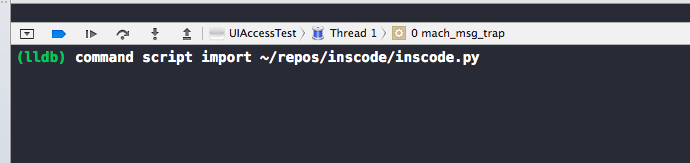
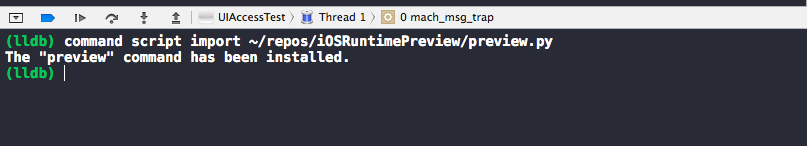
update README and images

Changed region(s): [[0.0, 0.0, 1.0, 1.0]]

diff --git a/README.md b/README.md
@@ -1,31 +1,29 @@
-inscode
-==========
-Runtime Objective-C Code Insertion Tool for iOS Debugging.
+iOS Runtime Preview
+======================
+This tool enables an iOS app to sync with code modifications at runtime.
 
-See video: [https://vimeo.com/86823475](https://vimeo.com/86823475)
+See video: [https://vimeo.com/87258262](https://vimeo.com/87258262)
 
 Install
 -------------
 ```sh
-$ git clone https://github.com/addsict/inscode.git
+$ git clone https://github.com/addsict/iOSRuntimePreview.git
 ```
 
 How to use
 ------------
 1. Run your iOS app from Xcode on either the iOS simulator or the iOS device.
 
-    ![img1](https://raw.github.com/addsict/inscode/master/img/img1.png)
+    ![img1](https://raw.github.com/addsict/iOSRuntimePreview/master/img/img1.png)
 
 1. Pause program execution by clicking a pause button at debug area or keyboard shortcut `^⌘Y`.
 
-    ![img2](https://raw.github.com/addsict/inscode/master/img/img2.png)
+    ![img2](https://raw.github.com/addsict/iOSRuntimePreview/master/img/img2.png)
 
-1. Import `inscode.py` into a LLDB debug session by below command.  
+1. Import `preview.py` into a LLDB debug session by below command.  
     You may execute this command just one time within same debug session.
 
-    ![img3](https://raw.github.com/addsict/inscode/master/img/img3.png)
+    ![img3](https://raw.github.com/addsict/iOSRuntimePreview/master/img/img3.png)
 
-1. Then, insert an Objective-C code anywhere you want.  
-    format: `inscode <file name>:<line number> '<code>'`
-
-    ![img4](https://raw.github.com/addsict/inscode/master/img/img4.png)
+1. Register a source file which you want to sync with running iOS app.  
+    format: `preview <file path from project directory>`
